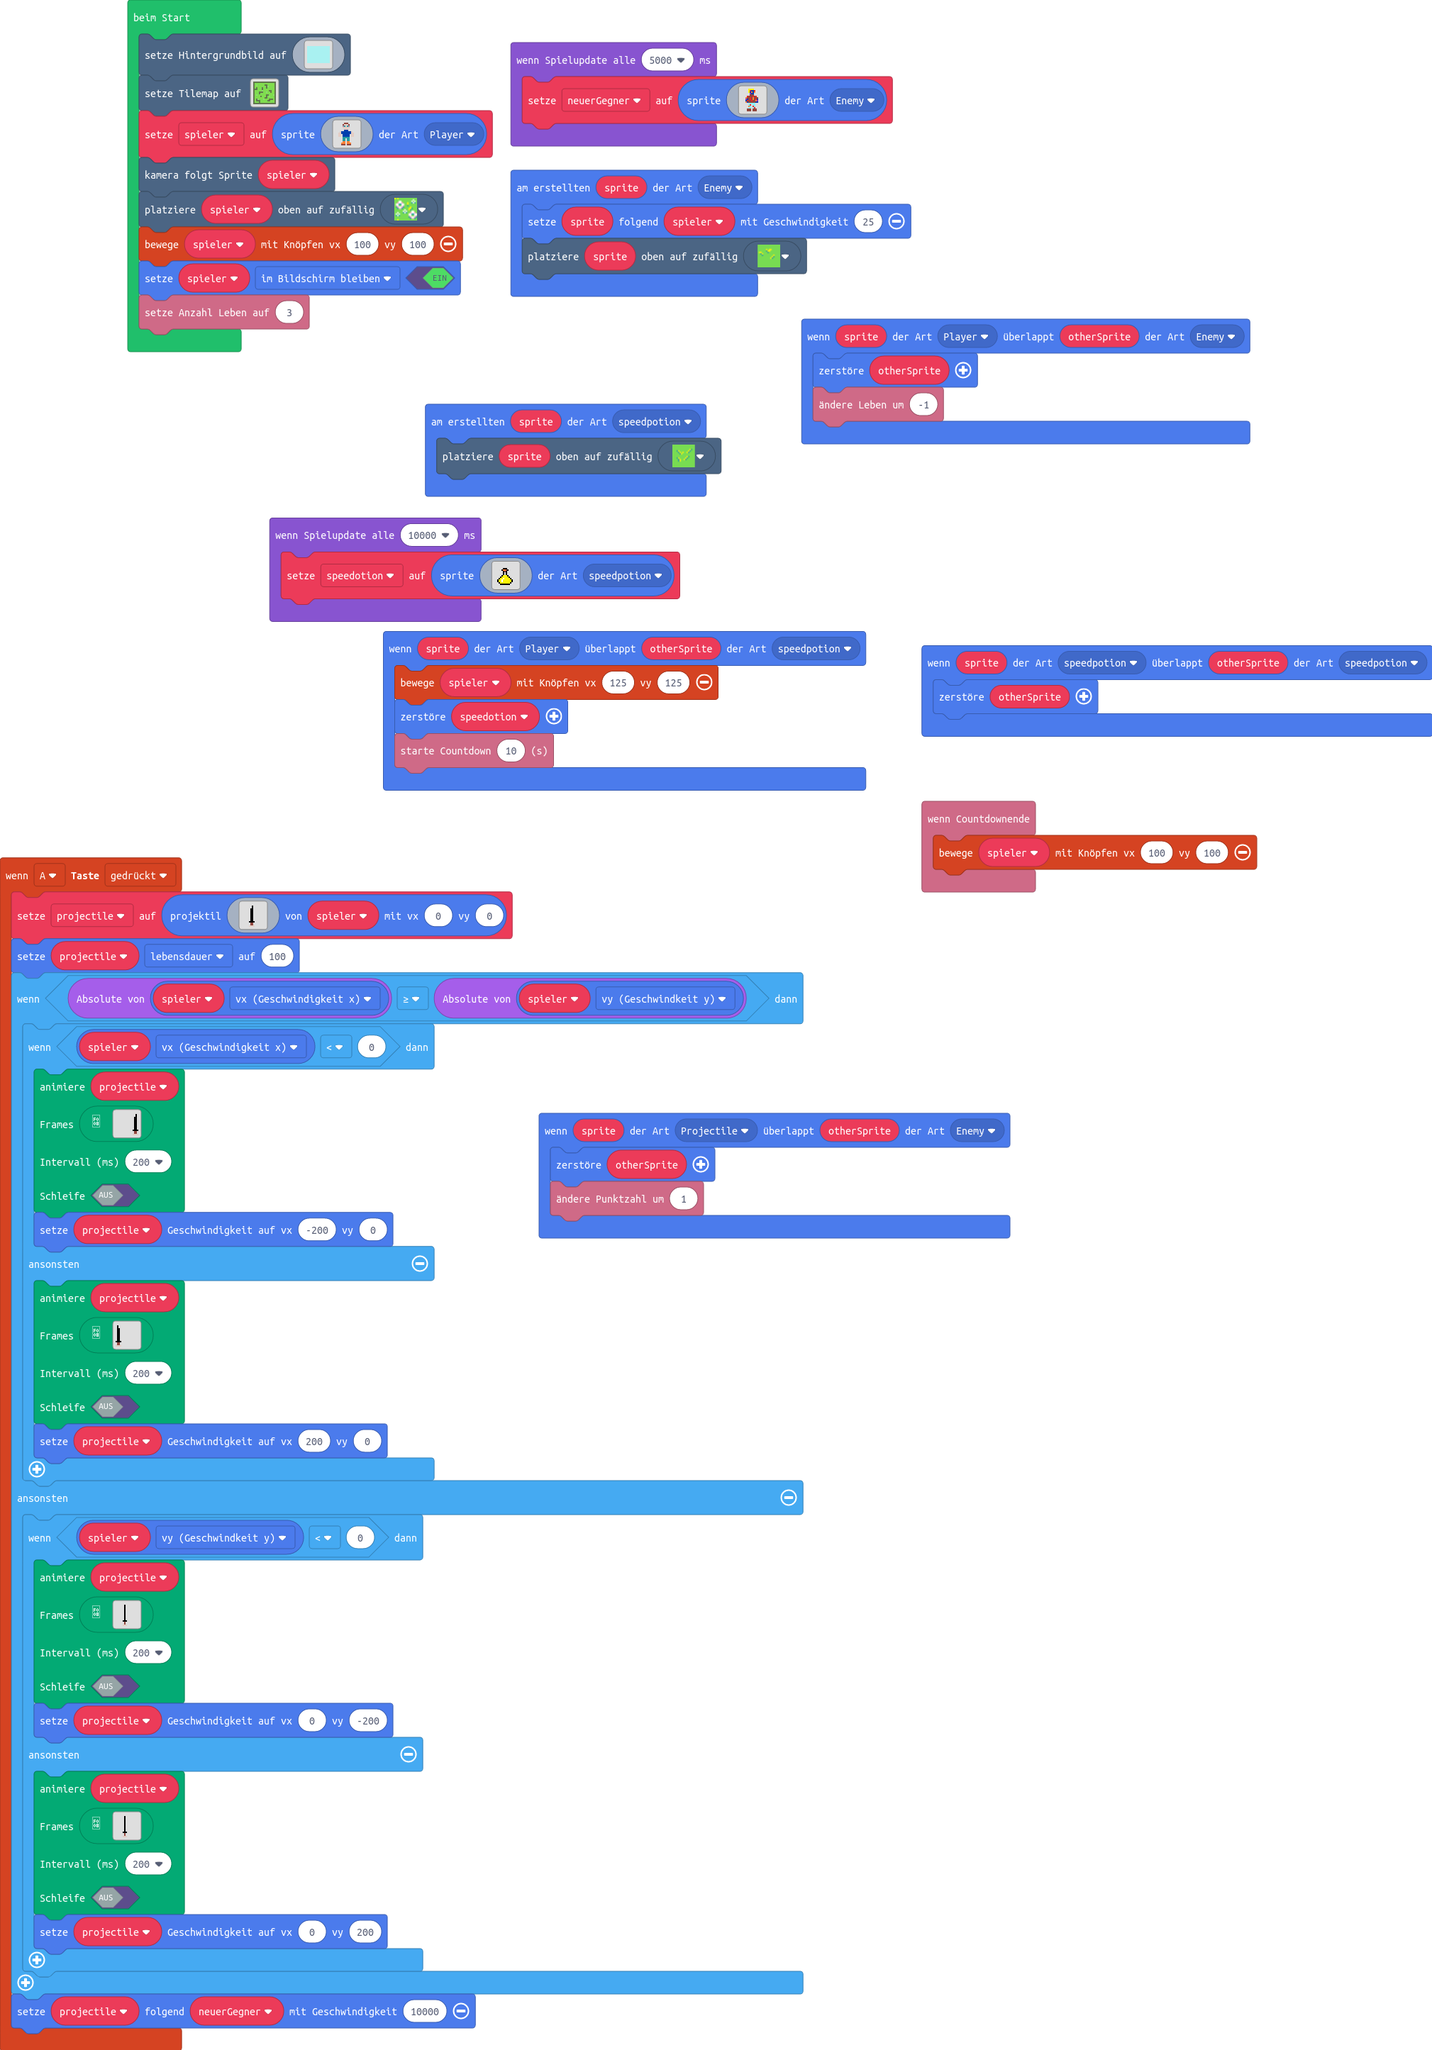
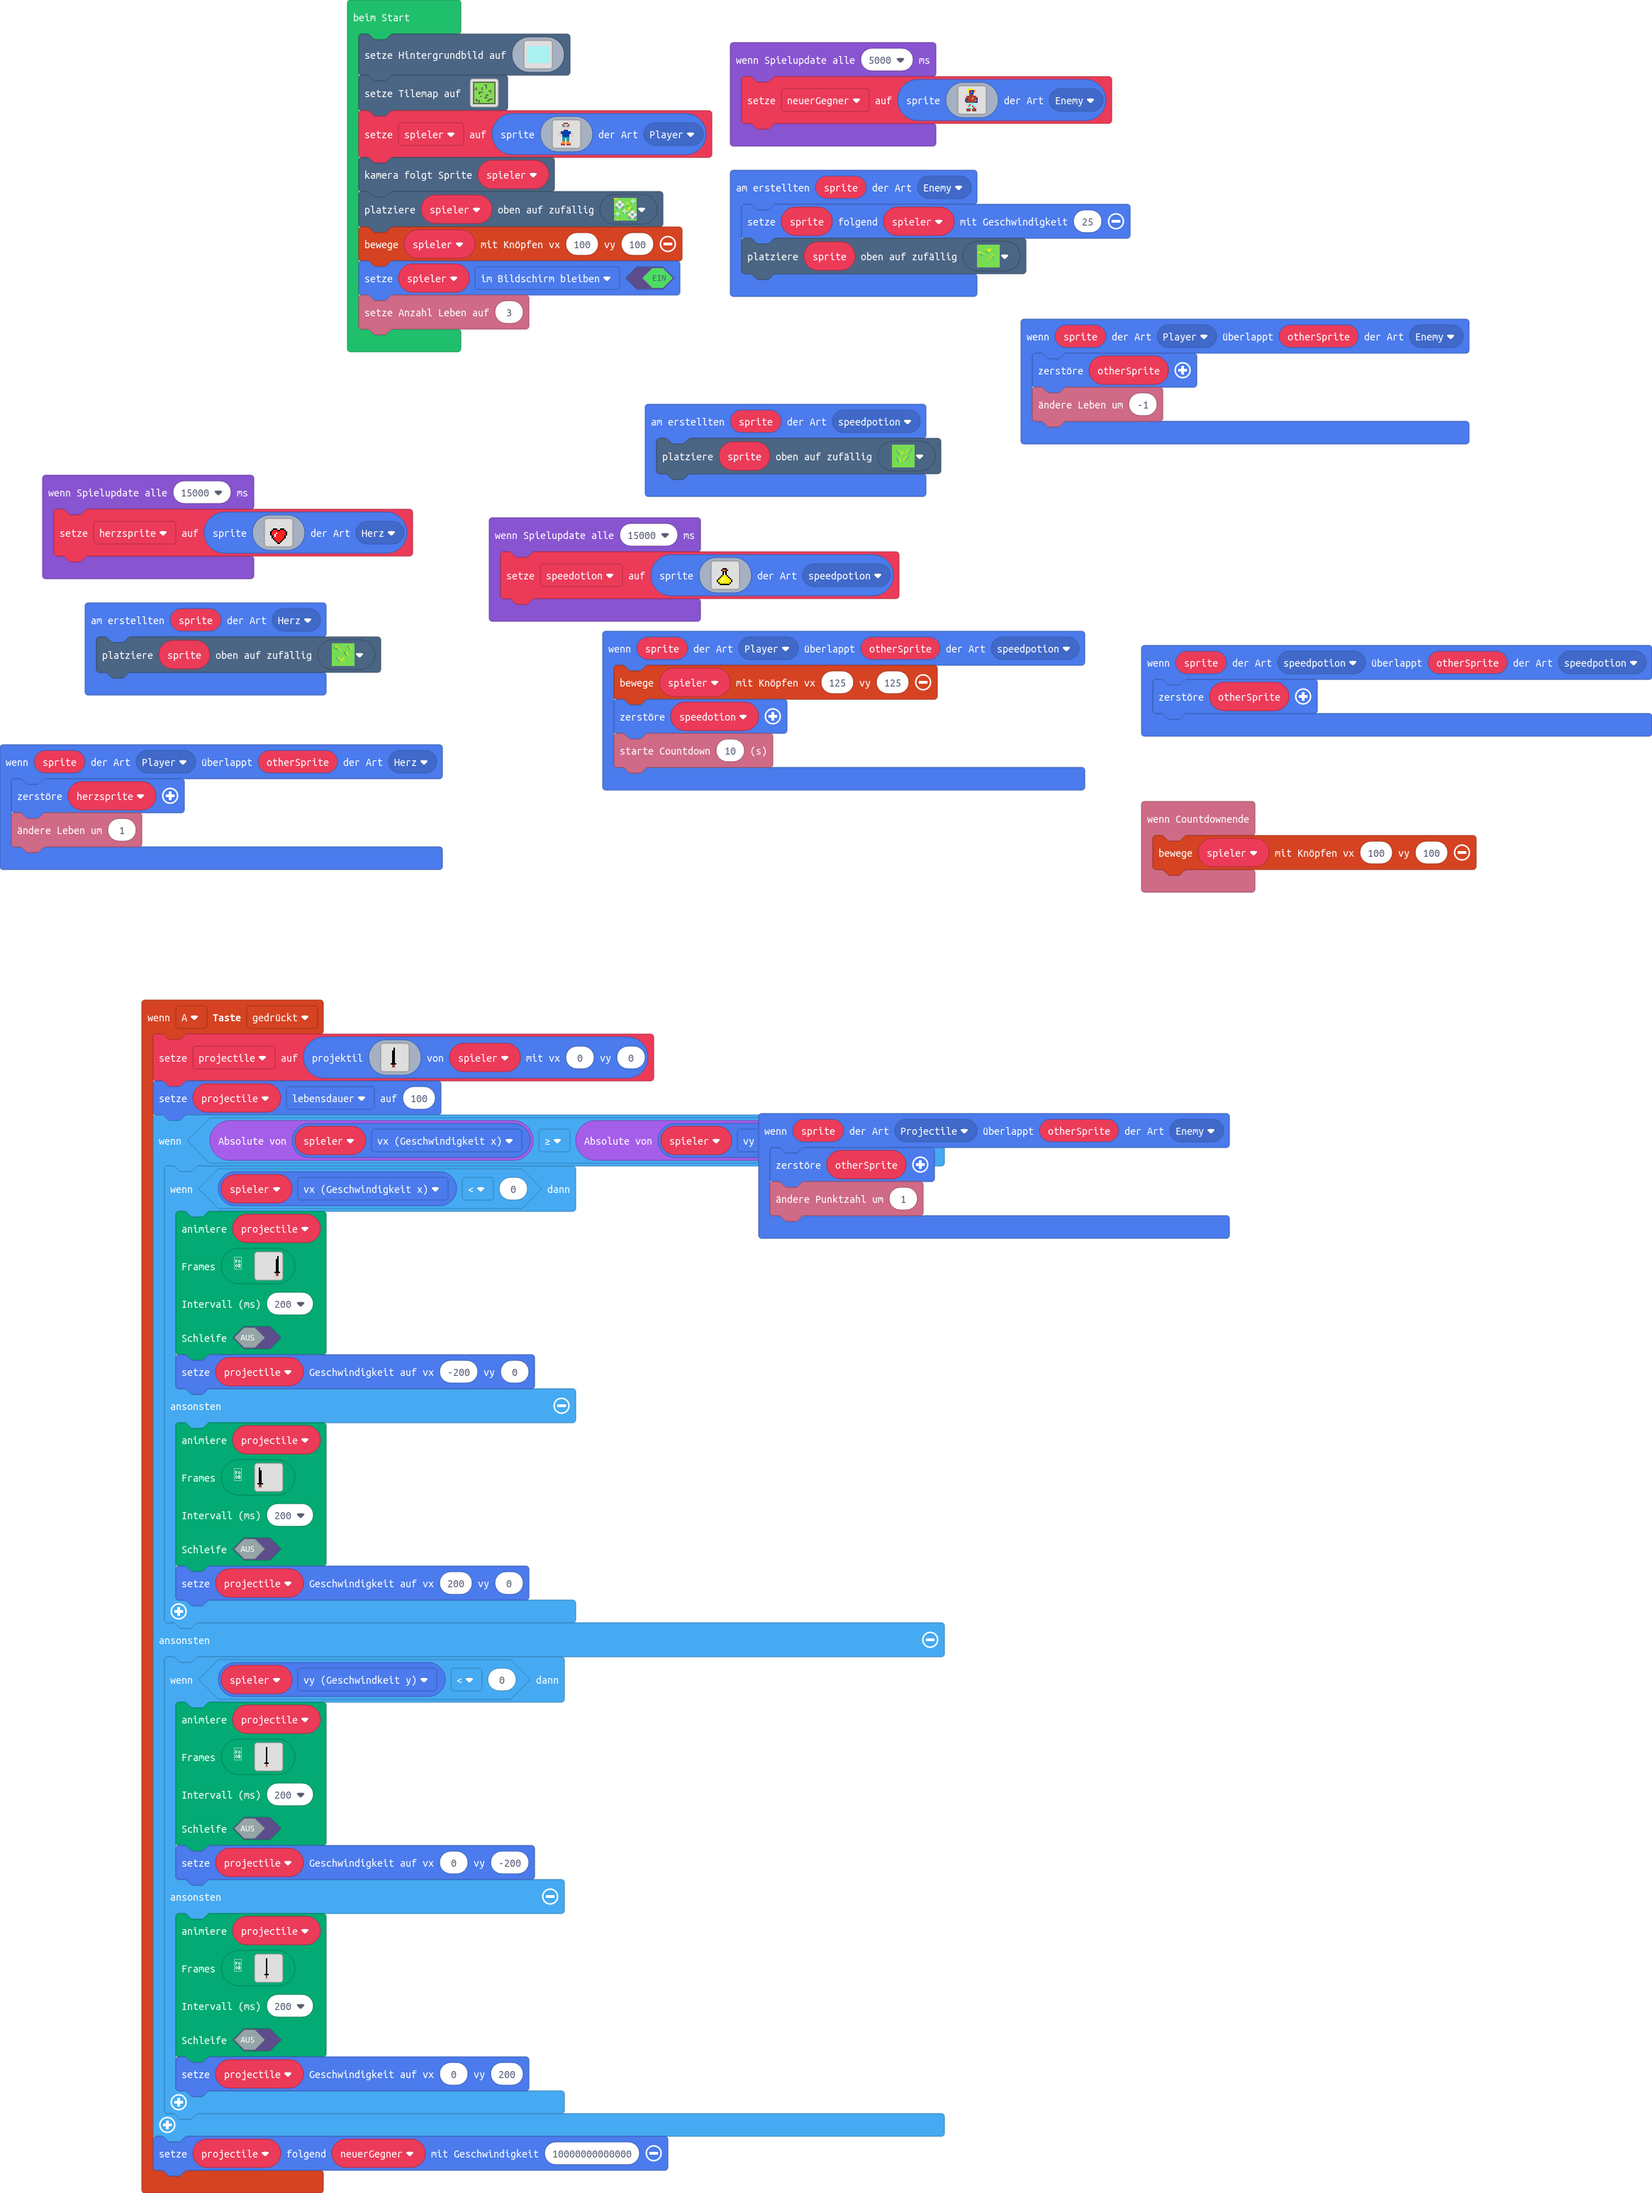
herzen

diff --git a/main.ts b/main.ts
@@ -1,5 +1,7 @@
 namespace SpriteKind {
     export const speedpotion = SpriteKind.create()
+    export const heart = SpriteKind.create()
+    export const Herz = SpriteKind.create()
 }
 namespace myTiles {
     //% blockIdentity=images._tile
@@ -78,7 +80,30 @@ f f d d d d d d d d d f 7 7 7 7
 7 7 7 7 7 7 7 7 7 7 7 7 7 7 7 7 
 7 7 7 7 7 7 7 7 7 7 7 7 7 7 7 7 
 `
+    //% blockIdentity=images._tile
+    export const tile4 = img`
+7 7 7 7 7 7 7 7 7 7 7 7 7 7 7 7 
+7 7 7 7 7 7 7 7 7 7 7 7 7 7 7 7 
+7 6 5 5 7 7 7 7 7 7 7 6 5 7 7 7 
+7 7 6 6 5 7 7 7 7 7 7 7 6 5 7 7 
+7 7 7 7 6 5 7 7 7 7 7 7 7 7 7 7 
+7 7 7 7 7 7 7 7 7 7 7 7 7 7 7 7 
+7 7 7 7 7 7 7 7 7 6 5 7 7 7 7 7 
+7 7 7 7 7 7 7 7 7 6 5 7 7 7 7 7 
+7 7 7 7 7 7 7 7 7 7 6 5 7 7 7 7 
+7 7 7 7 7 7 7 7 7 7 7 7 7 7 7 7 
+7 7 7 6 5 7 7 7 5 7 7 7 7 7 7 7 
+7 7 7 7 6 5 7 5 7 7 7 7 7 7 7 7 
+7 7 7 7 7 6 5 7 7 7 7 7 7 7 7 7 
+7 7 7 7 7 7 7 7 7 7 7 7 7 7 7 7 
+7 7 7 7 7 7 7 7 7 7 7 7 7 7 7 7 
+7 7 7 7 7 7 7 7 7 7 7 7 7 7 7 7 
+`
 }
+sprites.onOverlap(SpriteKind.Player, SpriteKind.Herz, function (sprite, otherSprite) {
+    herzsprite.destroy()
+    info.changeLifeBy(1)
+})
 sprites.onCreated(SpriteKind.speedpotion, function (sprite) {
     tiles.placeOnRandomTile(sprite, myTiles.tile3)
 })
@@ -86,6 +111,9 @@ sprites.onOverlap(SpriteKind.Player, SpriteKind.speedpotion, function (sprite, o
     controller.moveSprite(spieler, 125, 125)
     speedotion.destroy()
     info.startCountdown(10)
+})
+sprites.onCreated(SpriteKind.Herz, function (sprite) {
+    tiles.placeOnRandomTile(sprite, myTiles.tile4)
 })
 sprites.onOverlap(SpriteKind.Projectile, SpriteKind.Enemy, function (sprite, otherSprite) {
     otherSprite.destroy()
@@ -386,7 +414,7 @@ d . . f . . . . . . . . . . . .
             projectile.setVelocity(0, 200)
         }
     }
-    projectile.follow(neuerGegner, 10000)
+    projectile.follow(neuerGegner, 10000000000000)
 })
 sprites.onOverlap(SpriteKind.Player, SpriteKind.Enemy, function (sprite, otherSprite) {
     otherSprite.destroy()
@@ -405,6 +433,7 @@ sprites.onCreated(SpriteKind.Enemy, function (sprite) {
 let neuerGegner: Sprite = null
 let projectile: Sprite = null
 let speedotion: Sprite = null
+let herzsprite: Sprite = null
 let spieler: Sprite = null
 scene.setBackgroundImage(img`
 9 9 9 9 9 9 9 9 9 9 9 9 9 9 9 9 9 9 9 9 9 9 9 9 9 9 9 9 9 9 9 9 9 9 9 9 9 9 9 9 9 9 9 9 9 9 9 9 9 9 9 9 9 9 9 9 9 9 9 9 9 9 9 9 9 9 9 9 9 9 9 9 9 9 9 9 9 9 9 9 9 9 9 9 9 9 9 9 9 9 9 9 9 9 9 9 9 9 9 9 9 9 9 9 9 9 9 9 9 9 9 9 9 9 9 9 9 9 9 9 9 9 9 9 9 9 9 9 9 9 9 9 9 9 9 9 9 9 9 9 9 9 9 9 9 9 9 9 9 9 9 9 9 9 9 9 9 9 9 9 
@@ -529,7 +558,7 @@ scene.setBackgroundImage(img`
 9 9 9 9 9 9 9 9 9 9 9 9 9 9 9 9 9 9 9 9 9 9 9 9 9 9 9 9 9 9 9 9 9 9 9 9 9 9 9 9 9 9 9 9 9 9 9 9 9 9 9 9 9 9 9 9 9 9 9 9 9 9 9 9 9 9 9 9 9 9 9 9 9 9 9 9 9 9 9 9 9 9 9 9 9 9 9 9 9 9 9 9 9 9 9 9 9 9 9 9 9 9 9 9 9 9 9 9 9 9 9 9 9 9 9 9 9 9 9 9 9 9 9 9 9 9 9 9 9 9 9 9 9 9 9 9 9 9 9 9 9 9 9 9 9 9 9 9 9 9 9 9 9 9 9 9 9 9 9 9 
 `)
 tiles.setTilemap(tiles.createTilemap(
-            hex`1000100004040404040404040404040404040404040101010103010101030101010105040401020101010301040401030303030404030301030106010104020101010104040104030501040105040101010103040404040101010401010303010106030404030101010102010101030404010304040101010404040101020101040303040401010604010101010101010101010404010201010105010104040103010204040101010304010103040102060101040401030103030301040401010101010404010402010601020101030404040104040304040401010101060404010101040401010504010103030101010105030404040404040404040404040404040404`,
+            hex`1000100004040404040404040404040404040404040101010103010101030101010105040401020101010301040401030303030404030301030106010104020107010104040104030501040105040101010103040404040701010401010303010106030404030101010102010101030404010304040101010404040101020101040303040401010604010101010101010101010404010201010105010104040103010204040701010304010703040102060101040401030103030301040401010101010404010402010601020101030404040104040304040401010101060404010101040401010504010107030101010105030404040404040404040404040404040404`,
             img`
 2 2 2 2 2 2 2 2 2 2 2 2 2 2 2 2 
 2 . . . . . . . . . . . . . . 2 
@@ -548,7 +577,7 @@ tiles.setTilemap(tiles.createTilemap(
 2 . . . 2 . . . . . . . . . . 2 
 2 2 2 2 2 2 2 2 2 2 2 2 2 2 2 2 
 `,
-            [myTiles.tile0,sprites.castle.tileGrass1,sprites.castle.tileGrass2,sprites.castle.tileGrass3,myTiles.tile1,myTiles.tile2,myTiles.tile3],
+            [myTiles.tile0,sprites.castle.tileGrass1,sprites.castle.tileGrass2,sprites.castle.tileGrass3,myTiles.tile1,myTiles.tile2,myTiles.tile3,myTiles.tile4],
             TileScale.Sixteen
         ))
 spieler = sprites.create(img`
@@ -574,26 +603,6 @@ tiles.placeOnRandomTile(spieler, sprites.castle.tileGrass2)
 controller.moveSprite(spieler, 100, 100)
 spieler.setFlag(SpriteFlag.StayInScreen, true)
 info.setLife(3)
-game.onUpdateInterval(10000, function () {
-    speedotion = sprites.create(img`
-. . . . . . . . . . . . . . . . 
-. . . . . . . . . . . . . . . . 
-. . . . . . . . . . . . . . . . 
-. . . . . . f f f . . . . . . . 
-. . . . . f 4 4 e f . . . . . . 
-. . . . . . f e f . . . . . . . 
-. . . . . . f . f . . . . . . . 
-. . . . . . f . f . . . . . . . 
-. . . . . f 5 5 5 f . . . . . . 
-. . . . f 5 5 5 5 5 f . . . . . 
-. . . f 5 5 1 5 5 5 5 f . . . . 
-. . f 5 5 1 5 5 5 5 5 5 f . . . 
-. . f 5 5 1 5 5 5 5 5 5 f . . . 
-. . . f 5 5 5 5 5 5 5 f . . . . 
-. . . . f f f f f f f . . . . . 
-. . . . . . . . . . . . . . . . 
-`, SpriteKind.speedpotion)
-})
 game.onUpdateInterval(5000, function () {
     neuerGegner = sprites.create(img`
 . . . . . 5 5 5 5 . . . . . . . 
@@ -613,4 +622,44 @@ game.onUpdateInterval(5000, function () {
 . . . . e e e . e e e . . . . . 
 . . . . e e e . e e e . . . . . 
 `, SpriteKind.Enemy)
+})
+game.onUpdateInterval(15000, function () {
+    herzsprite = sprites.create(img`
+. . . . . . . . . . . . . . . . 
+. . . . . . . . . . . . . . . . 
+. . . . . . . . . . . . . . . . 
+. . . . . . . . . . . . . . . . 
+. . . . . . . . . . . . . . . . 
+. . . . f f f . . f f f . . . . 
+. . . f 2 2 2 f f 2 2 2 f . . . 
+. . f 2 2 2 2 2 2 2 2 2 2 f . . 
+. . f 2 2 2 1 2 2 2 2 2 2 f . . 
+. . f 2 2 1 2 2 2 2 2 2 2 f . . 
+. . . f 2 1 2 2 2 2 2 2 f . . . 
+. . . f 2 2 2 2 2 2 2 2 f . . . 
+. . . . f 2 2 2 2 2 2 f . . . . 
+. . . . . f 2 2 2 2 f . . . . . 
+. . . . . . f 2 2 f . . . . . . 
+. . . . . . . f f . . . . . . . 
+`, SpriteKind.Herz)
+})
+game.onUpdateInterval(15000, function () {
+    speedotion = sprites.create(img`
+. . . . . . . . . . . . . . . . 
+. . . . . . . . . . . . . . . . 
+. . . . . . . . . . . . . . . . 
+. . . . . . f f f . . . . . . . 
+. . . . . f 4 4 e f . . . . . . 
+. . . . . . f e f . . . . . . . 
+. . . . . . f . f . . . . . . . 
+. . . . . . f . f . . . . . . . 
+. . . . . f 5 5 5 f . . . . . . 
+. . . . f 5 5 5 5 5 f . . . . . 
+. . . f 5 5 1 5 5 5 5 f . . . . 
+. . f 5 5 1 5 5 5 5 5 5 f . . . 
+. . f 5 5 1 5 5 5 5 5 5 f . . . 
+. . . f 5 5 5 5 5 5 5 f . . . . 
+. . . . f f f f f f f . . . . . 
+. . . . . . . . . . . . . . . . 
+`, SpriteKind.speedpotion)
 })
